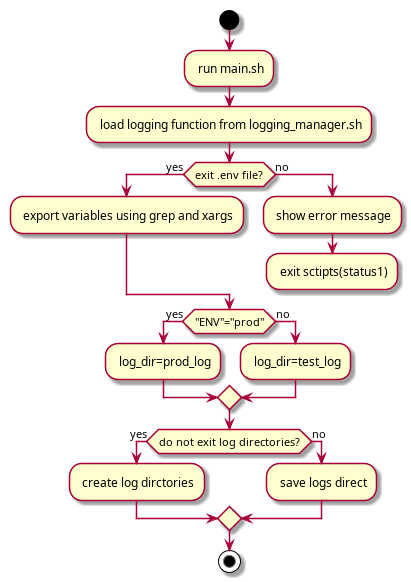
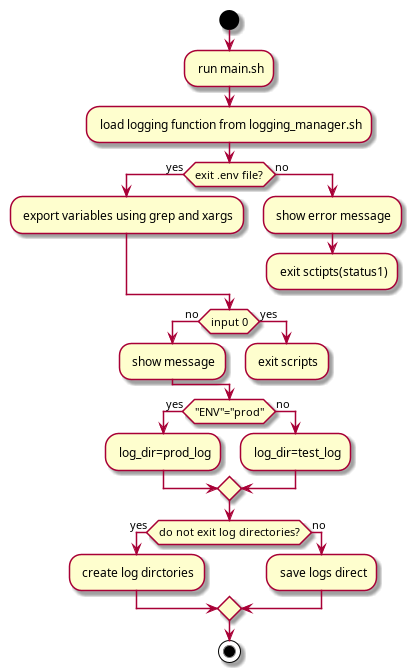
edit README.md

diff --git a/README.md b/README.md
@@ -1,2 +1,14 @@
 # shellscript_whileloop
 training while loop. 
+
+
+The objective of this project:
+1. use while loop 
+2. try multi autput by case
+
+what does this project?
+- you find a digit to end this script.
+- this script keep to going until you find the right number .
+- log for test and prod is saved each in each log directoiry.
+test command: sudo ./main.sh
+prod commnad: sudo ENV=prod ./main.sh